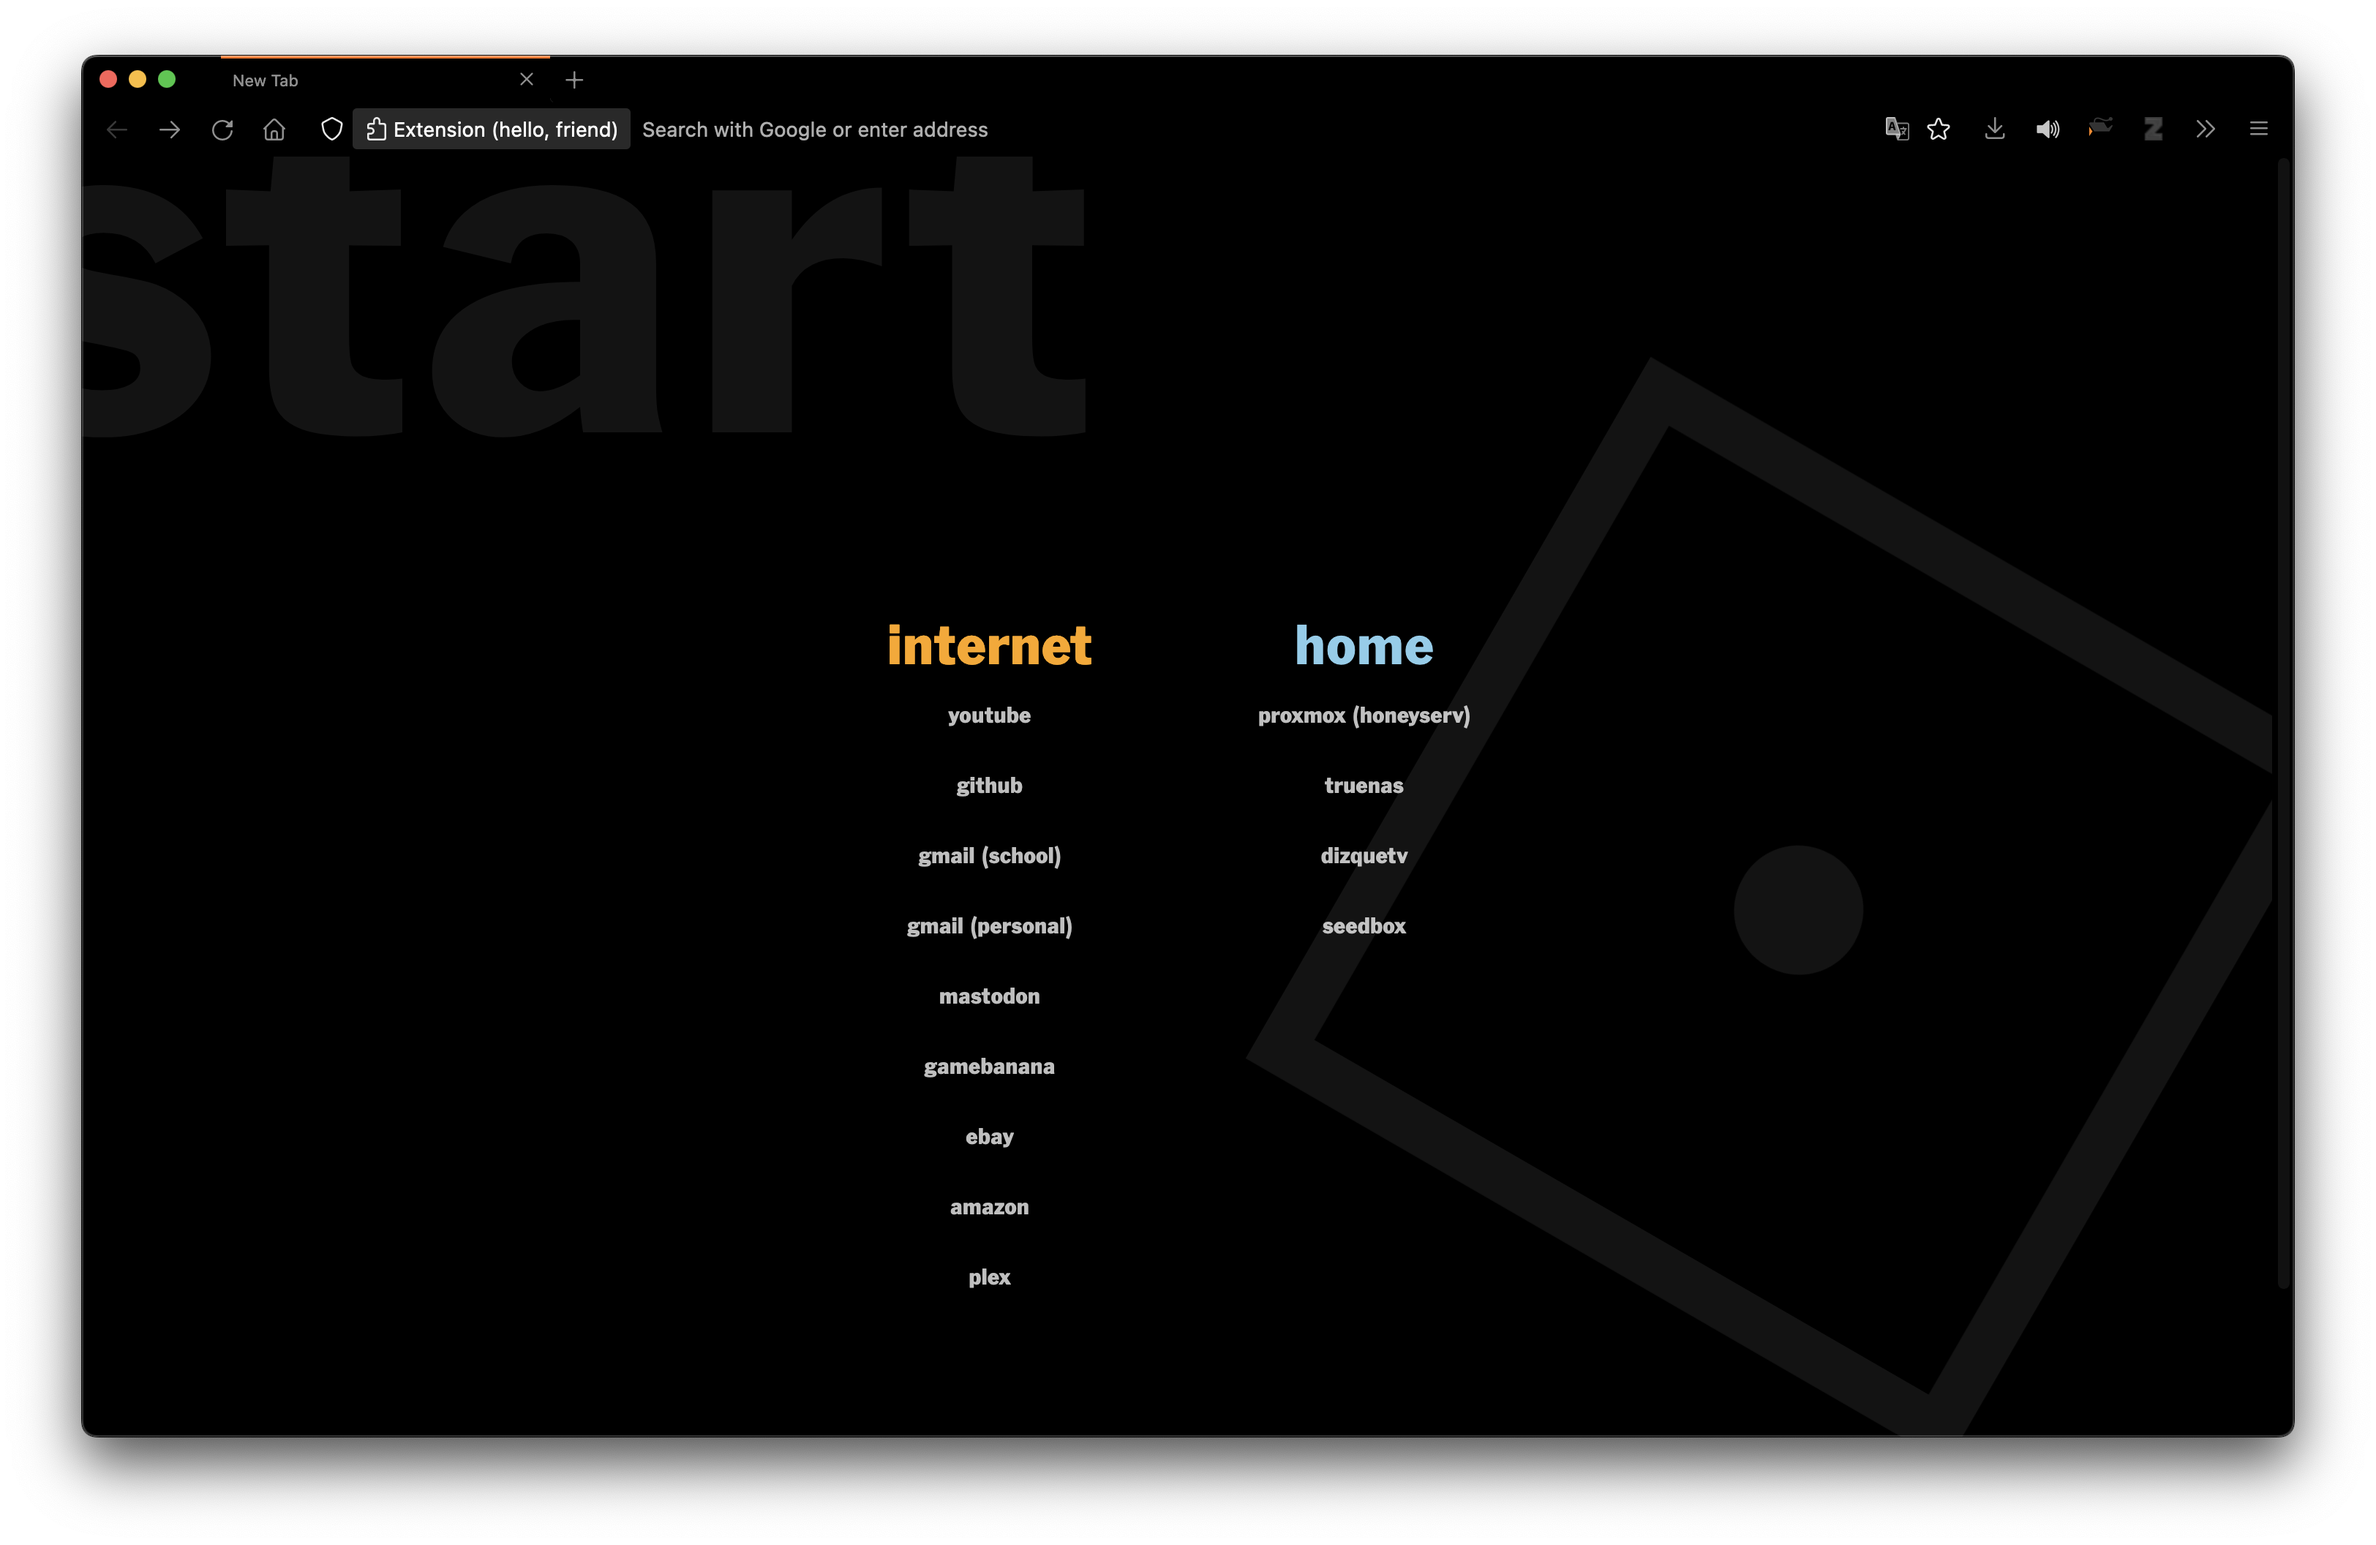
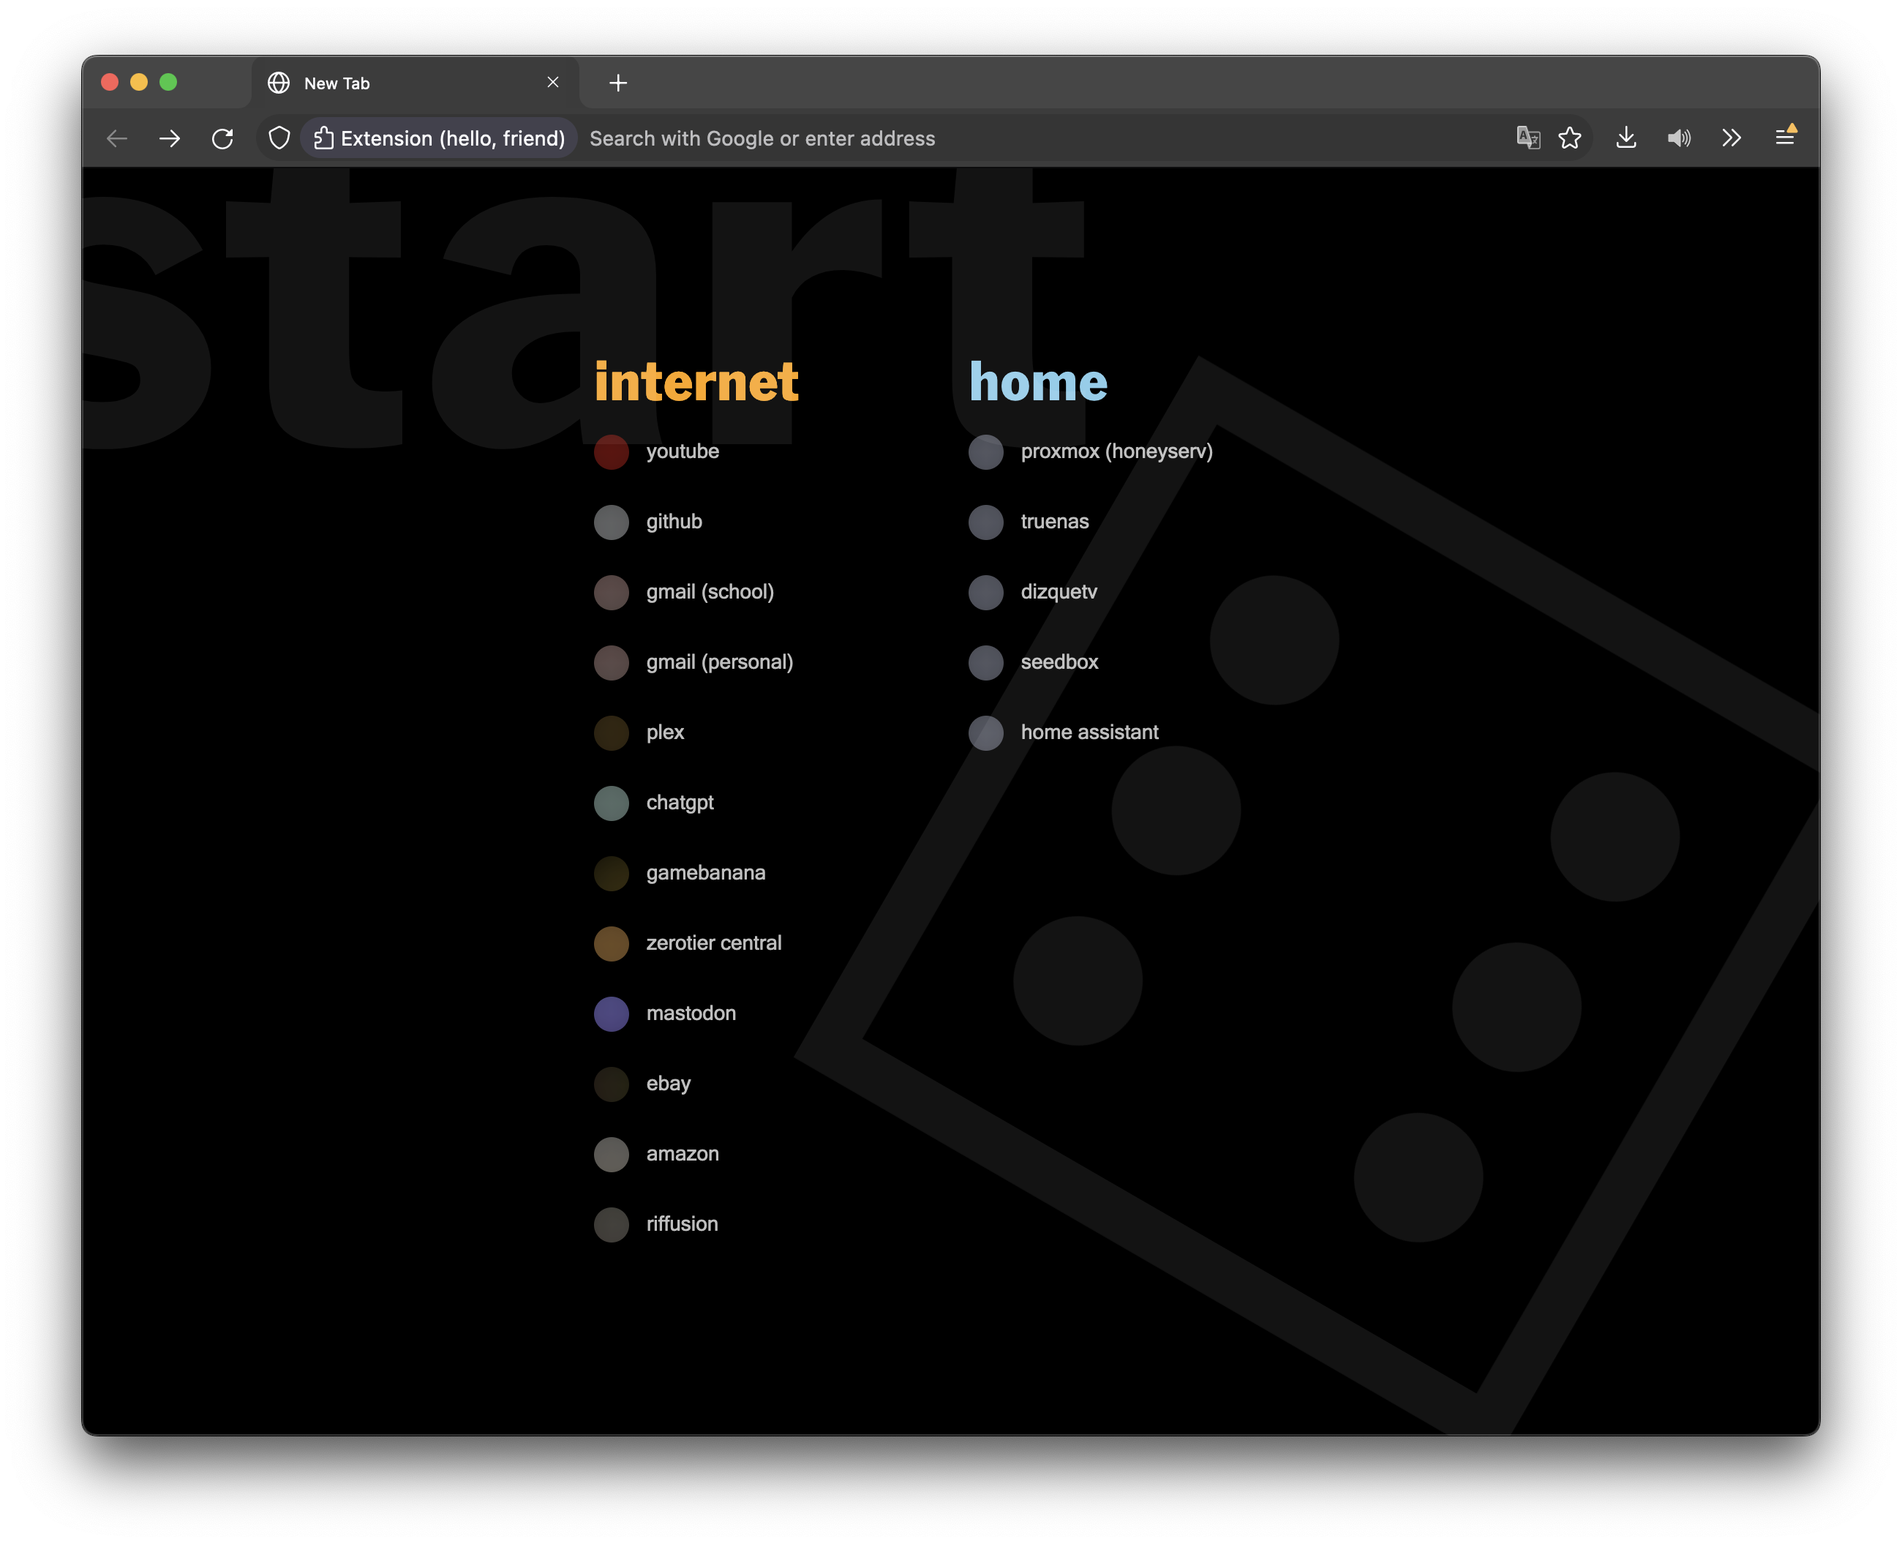
V2

diff --git a/script.js b/script.js
@@ -1,68 +1,128 @@
 const columns = [];
 
-chrome.bookmarks.getTree((items) => {
-    const bookmarksBar = items[0].children.find((x) =>
-        options.ROOT_FOLDER.test(x.title)
+// https://stackoverflow.com/a/48969580
+/**
+ * @param {string} url 
+ * @param {"GET" | "POST"} method 
+ * @returns 
+ */
+function makeAJAXRequest(url, method = "GET") {
+    return new Promise(function (resolve, reject) {
+        let xhr = new XMLHttpRequest();
+        xhr.open(method, url);
+        xhr.onload = function() {
+            if (this.status >= 200 && this.status < 300) {
+                resolve(xhr.response);
+            } else {
+                reject({
+                    status: this.status,
+                    statusText: xhr.statusText
+                });
+            }
+        };
+        xhr.onerror = function() {
+            reject({
+                status: this.status,
+                statusText: xhr.statusText
+            });
+        };
+        xhr.send();
+    });
+}
+
+class BookmarkTreeNode {
+    /**
+     * @param {object} obj
+     */
+    constructor(obj) {
+        this.dateAdded = obj.dateAdded;
+        this.dateGroupModified = obj.dateGroupModified;
+        this.id = obj.id;
+        this.index = obj.index;
+        this.parentId = obj.parentId;
+        this.title = obj.title;
+        this.url = obj.url;
+        this.type = obj.type;
+        this.faviconURL = `https://t1.gstatic.com/faviconV2?client=SOCIAL&type=FAVICON&fallback_opts=TYPE,SIZE,URL&url=${this.url}&size=128`;
+
+        /** @type {BookmarkTreeNode[]} */
+        this.children = [];
+        try {
+            obj.children.forEach(x => {
+                this.children.push(new BookmarkTreeNode(x))
+            });
+        } catch (e) {} // To catch the case where obj.children is undefined
+    }
+
+    htmlFolder(color = "white") {
+        if (this.type != "folder") return "";
+        const contents = this.children.map(x => x.htmlBookmark()).join("");
+        if (contents == "") return "";
+        return (`
+            <div class="category">
+                <div
+                    class="category-title"
+                    style="color:${color}"
+                >
+                    ${this.title}
+                </div>
+                ${contents}
+            </div>
+        `);
+    }
+
+    htmlBookmark() {
+        if (this.type != "bookmark") return "";
+        let imgElement = "";
+        if (options.FAVICONS)
+            imgElement = (`
+                <div class="category-item-favicon">    
+                    <img src="${this.faviconURL}" />
+                </div>
+            `);
+
+        return (`
+            <a
+                class="category-item clickable"
+                href=${this.url}
+            >
+                ${imgElement}
+                ${this.title}
+            </a>
+        `);
+    }
+}
+
+/**
+ * @param {BookmarkTreeNode[]} items 
+ */
+async function renderPage(items) {
+    const root = document.getElementById("categories");
+    const bookmarksBar = items[0].children.find(
+        x => options.ROOT_FOLDER.test(x.title)
     );
 
     if (!bookmarksBar) {
         console.error(`Was expecting a folder called '${options.ROOT_FOLDER}'`);
-    }
-
-    const rootBookmarks = bookmarksBar.children.filter(
-        (node) => !node.children
-    );
-
-    const rootFolders = bookmarksBar.children.filter((node) => !!node.children);
-
-    const rootColumn = {
-        title: "/",
-        children: [],
-    };
-
-    rootBookmarks.forEach((node) => addBookmark(rootColumn, node));
-
-    columns.push(rootColumn);
-
-    rootFolders.forEach((node) => {
-        const column = {
-            title: node.title,
-            children: [],
-        };
-
-        visit(column, node);
-
-        columns.push(column);
-    });
-
-    render(columns);
-});
-
-const visit = (column, node, path = []) => {
-    if (node.children) {
-        node.children.forEach((x) => visit(column, x, [...path, node.title]));
         return;
     }
 
-    addBookmark(column, node, path);
-};
-
-const addBookmark = (column, node, path = []) => {
-    if (!node.url || node.url.startsWith("javascript:")) {
-        // ignore bookmarklets
-        return;
+    const rootFolders = bookmarksBar.children.filter(node => node.type == "folder");
+    
+    for (let i = 0; i < rootFolders.length; i++) {
+        let color = options.COLOR_THEME[i % options.COLOR_THEME.length];
+        root.innerHTML += rootFolders[i].htmlFolder(color);
     }
+}
 
-    const isSeparator =
-        options.SEPARATORS.includes(node.title) || node.type === "separator";
+chrome.bookmarks.getTree(
+    itemsRaw => renderPage(
+        itemsRaw.map(
+            x => new BookmarkTreeNode(x)
+        )
+    )
+);
 
-    column.children.push({
-        title: node.title,
-        url: node.url,
-        path: path,
-        isSeparator,
-    });
-};
 
 document.addEventListener("DOMContentLoaded", () => {
     document.body.style.background = options.BACKGROUND;
@@ -74,9 +134,21 @@ if (window.browser) {
     window.browser.runtime.getBrowserInfo().then((browser) => {
         if (browser.name === "Firefox") {
             console.log(
-                `Hello, friend. On ${browser.name} you can make this your home page by setting the following URL in your home page preferences:`
+                `On ${browser.name} you can make this your home page by setting the following URL in your home page preferences:`
             );
             console.log(window.location.href);
         }
     });
 }
+
+document.getElementById("bg-top-left").innerHTML = options.TITLE;
+
+// Dice roll!
+let htmlDiceEntities = ["&#x2680;","&#x2681;","&#x2682;","&#x2683;","&#x2684;","&#x2685;"];
+
+function randomElement(arr) {
+    return arr[Math.round(Math.random()*(arr.length - 1))];
+}
+
+let e_bg_bottom_right = document.getElementById("bg-bottom-right");
+e_bg_bottom_right.innerHTML = randomElement(htmlDiceEntities);

diff --git a/style.css b/style.css
@@ -1,6 +1,6 @@
 html, body {
     width: 100%;
-    min-height: 100%;
+    min-height: 100vh;
     color: white;
     background: black;
     margin: 0;
@@ -11,6 +11,12 @@ html, body {
     font-family: 'franklin_gothicregular';
     overflow-x: hidden;
     text-transform: lowercase;
+}
+
+body {
+    display: flex;
+    justify-content: center;
+    align-items: center;
 }
 
 * {
@@ -70,34 +76,35 @@ a {
 /* ========================================================================= */
 
 #categories {
-    padding-top: calc(50vh - (256px / 2));
-    padding-bottom: 128px;
     display: flex;
     justify-content: center;
     flex-wrap: wrap;
 }
 
 .category {
-    padding-bottom: 64px;
     width: 256px;
 }
 
 .category-item, .category-title {
     display: block;
     width: 100%;
-    text-align: center;
+    text-align: left;
     height: 48px;
     line-height: 48px;
+    box-sizing: border-box;
 }
 
 .category-item {
     font-family: 'Microsoft Sans Serif';
     font-size: 14px;
     opacity: 75%;
+    padding-left: 48px;
+
 }
 
 .category-title {
     font-size: 40px;
+    margin-left: 12px;
 }
 
 /* ========================================================================= */
@@ -136,4 +143,21 @@ a {
     left: 0;
     width: 64px;
     height: 64px;
+}
+
+.category-item-favicon {
+    position: absolute;
+    width: 24px;
+    height: 24px;
+    top: 13px;
+    left: 12px;
+    overflow: hidden;
+    border-radius: 50%;
+}
+
+.category-item-favicon > img {
+    position: absolute;
+    width: 100%;
+    filter: blur(8px);
+    transform: scale(3);
 }

diff --git a/index.html b/index.html
@@ -5,17 +5,15 @@
         <meta http-equiv="X-UA-Compatible" content="IE=edge" />
         <title>New Tab</title>
         <script src="options.js"></script>
-        <script src="utils.js"></script>
-        <script src="render.js"></script>
-        <script src="script.js"></script>
         <meta name="viewport" content="width=device-width, initial-scale=1" />
-        <link rel="stylesheet" href="./style.css?_=1" />
-        <link rel="stylesheet" href="./fonts/fonts.css?_=1" />
+        <link rel="stylesheet" href="./style.css?_=2" />
+        <link rel="stylesheet" href="./fonts/fonts.css?_=2" />
     </head>
 
     <body>
         <div class="bg-element blur-in" id="bg-top-left"></div>
         <div class="bg-element blur-in" id="bg-bottom-right"></div>
         <div id="categories"></div>
+        <script src="script.js"></script>
     </body>
 </html>

diff --git a/options.js b/options.js
@@ -5,9 +5,10 @@ const options = {
     BACKGROUND: "#000000",
     SEPARATORS: ["-", ""],
     COLOR_THEME: [
-        "palevioletred",
         "orange",
+        "palevioletred",
         "skyblue"
     ],
     MAX_NAME_LENGTH: 30,
+    FAVICONS: true
 };

diff --git a/README.md b/README.md
@@ -2,6 +2,10 @@
 
 ![Screenshot preview of the hello-friend extension on a new tab](./PREVIEW.png)
 
+## WARNING
+
+This sends domain URLs to Google in order to get favicons. If you're not okay with this, then set `FAVICONS: false` in `options.js`. Pull requests with solutions to this are welcome.
+
 ## Notes
 
 -   In Firefox you'll have to manually set the home page.
